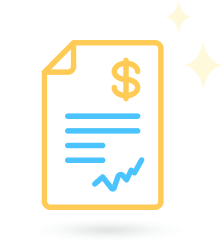
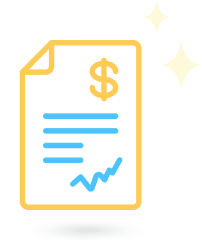
Add responsive styles for CampaignInfoGraphics component

diff --git a/src/components/campaigns/CampaignInfoGraphics.tsx b/src/components/campaigns/CampaignInfoGraphics.tsx
@@ -20,7 +20,8 @@ const classes = {
 
 const StyledGrid = styled(Grid)(({ theme }) => ({
   [`& .${classes.infoBlock}`]: {
-    display: 'inline-flex',
+    display: 'block',
+    textAlign: 'center',
     alignItems: 'center',
     padding: theme.spacing(0, 3, 5, 0),
     alignSelf: 'start',
@@ -29,6 +30,11 @@ const StyledGrid = styled(Grid)(({ theme }) => ({
       display: 'block',
       textAlign: 'center',
     },
+
+    [theme.breakpoints.up('lg')]: {
+      display: 'inline-flex',
+      textAlign: 'initial',
+    },
   },
 
   [`& .${classes.title}`]: {
@@ -36,16 +42,24 @@ const StyledGrid = styled(Grid)(({ theme }) => ({
     fontSize: theme.typography.pxToRem(16),
     fontFamily: "Montserrat, 'Helvetica Neue', Helvetica, Arial, sans-serif",
     marginBottom: theme.spacing(1),
-    width: theme.spacing(36),
+    width: '100%',
 
     '&:last-of-type': {
       width: '100%',
+    },
+
+    [theme.breakpoints.up('lg')]: {
+      width: theme.spacing(36),
     },
   },
 
   [`& .${classes.subtext}`]: {
     fontFamily: 'Lato',
-    width: theme.spacing(38),
+    width: '100%',
+
+    [theme.breakpoints.up('lg')]: {
+      width: theme.spacing(38),
+    },
   },
 
   [`& .${classes.volunteerButton}`]: {
@@ -66,9 +80,9 @@ export default function CampaignInfoGraphics() {
   const approvalIconSource = '/img/approval-icon.png'
 
   return (
-    <StyledGrid container>
+    <StyledGrid container pl={8}>
       <Grid item xs={12} lg={6} className={classes.infoBlock}>
-        <Image alt="Donation icon" src={donationIconSource} width={95} height={100} />
+        <Image alt="Donation icon" src={donationIconSource} width={90} height={100} />
         <Grid ml={1}>
           <Typography className={classes.title}>
             {t('campaigns:info-graphics.donation-title')}
@@ -79,7 +93,7 @@ export default function CampaignInfoGraphics() {
         </Grid>
       </Grid>
       <Grid item xs={12} lg={6} className={classes.infoBlock}>
-        <Image alt="Transparency icon" src={transparencyIconSource} width={202} height={100} />
+        <Image alt="Transparency icon" src={transparencyIconSource} width={90} height={100} />
         <Grid ml={1}>
           <Typography className={classes.title}>
             {t('campaigns:info-graphics.transparency-title')}
@@ -90,7 +104,7 @@ export default function CampaignInfoGraphics() {
         </Grid>
       </Grid>
       <Grid item xs={12} lg={6} className={classes.infoBlock}>
-        <Image alt="Approval icon" src={approvalIconSource} width={115} height={100} />
+        <Image alt="Approval icon" src={approvalIconSource} width={90} height={100} />
         <Grid ml={1}>
           <Typography className={classes.title}>
             {t('campaigns:info-graphics.approval-title')}
